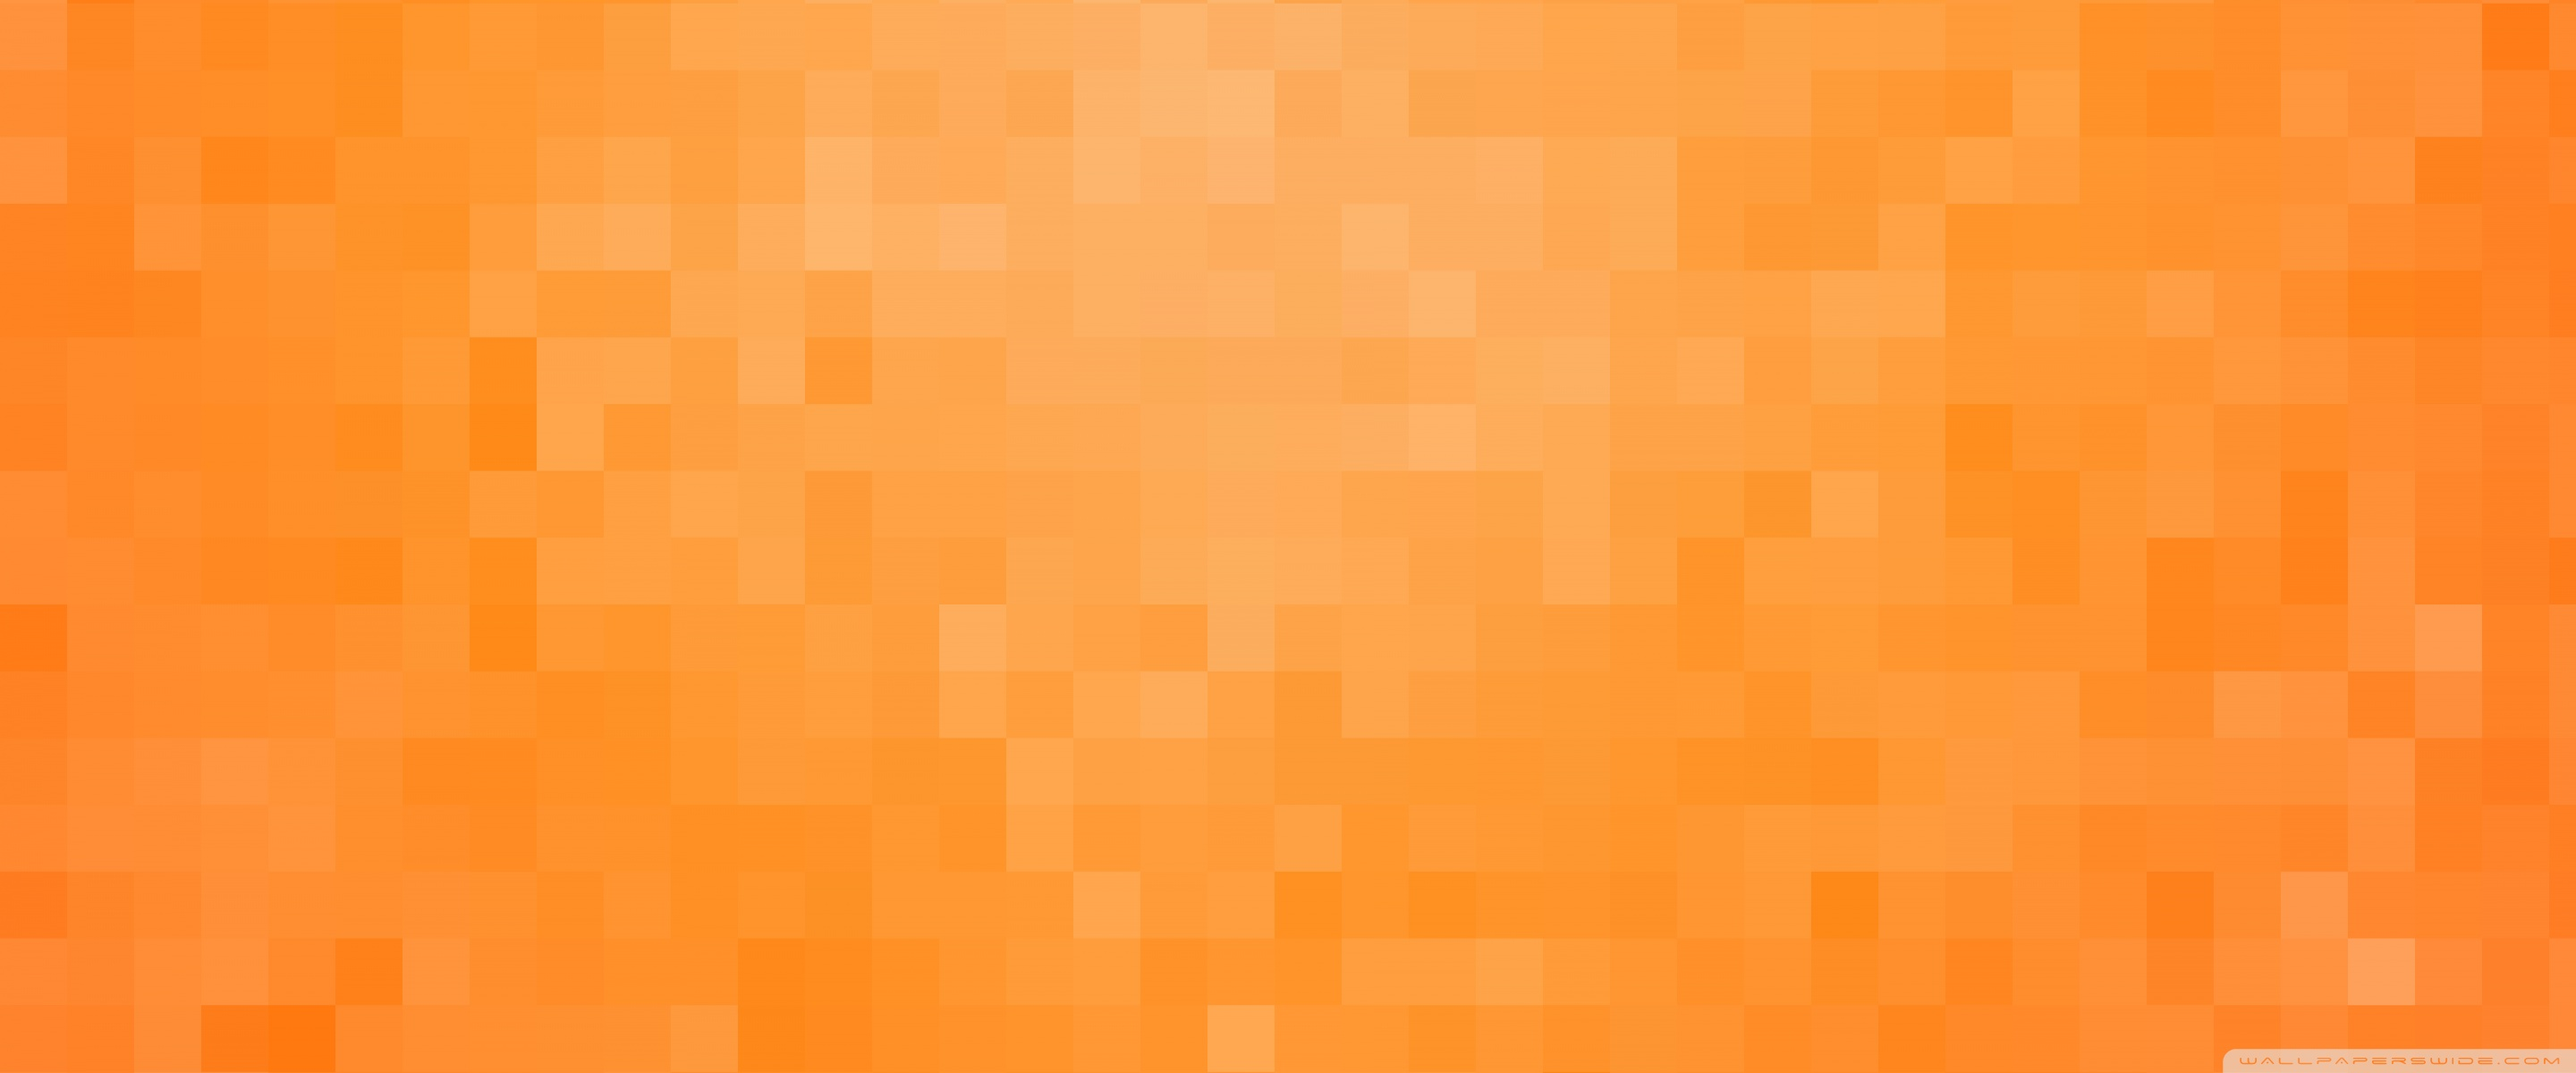
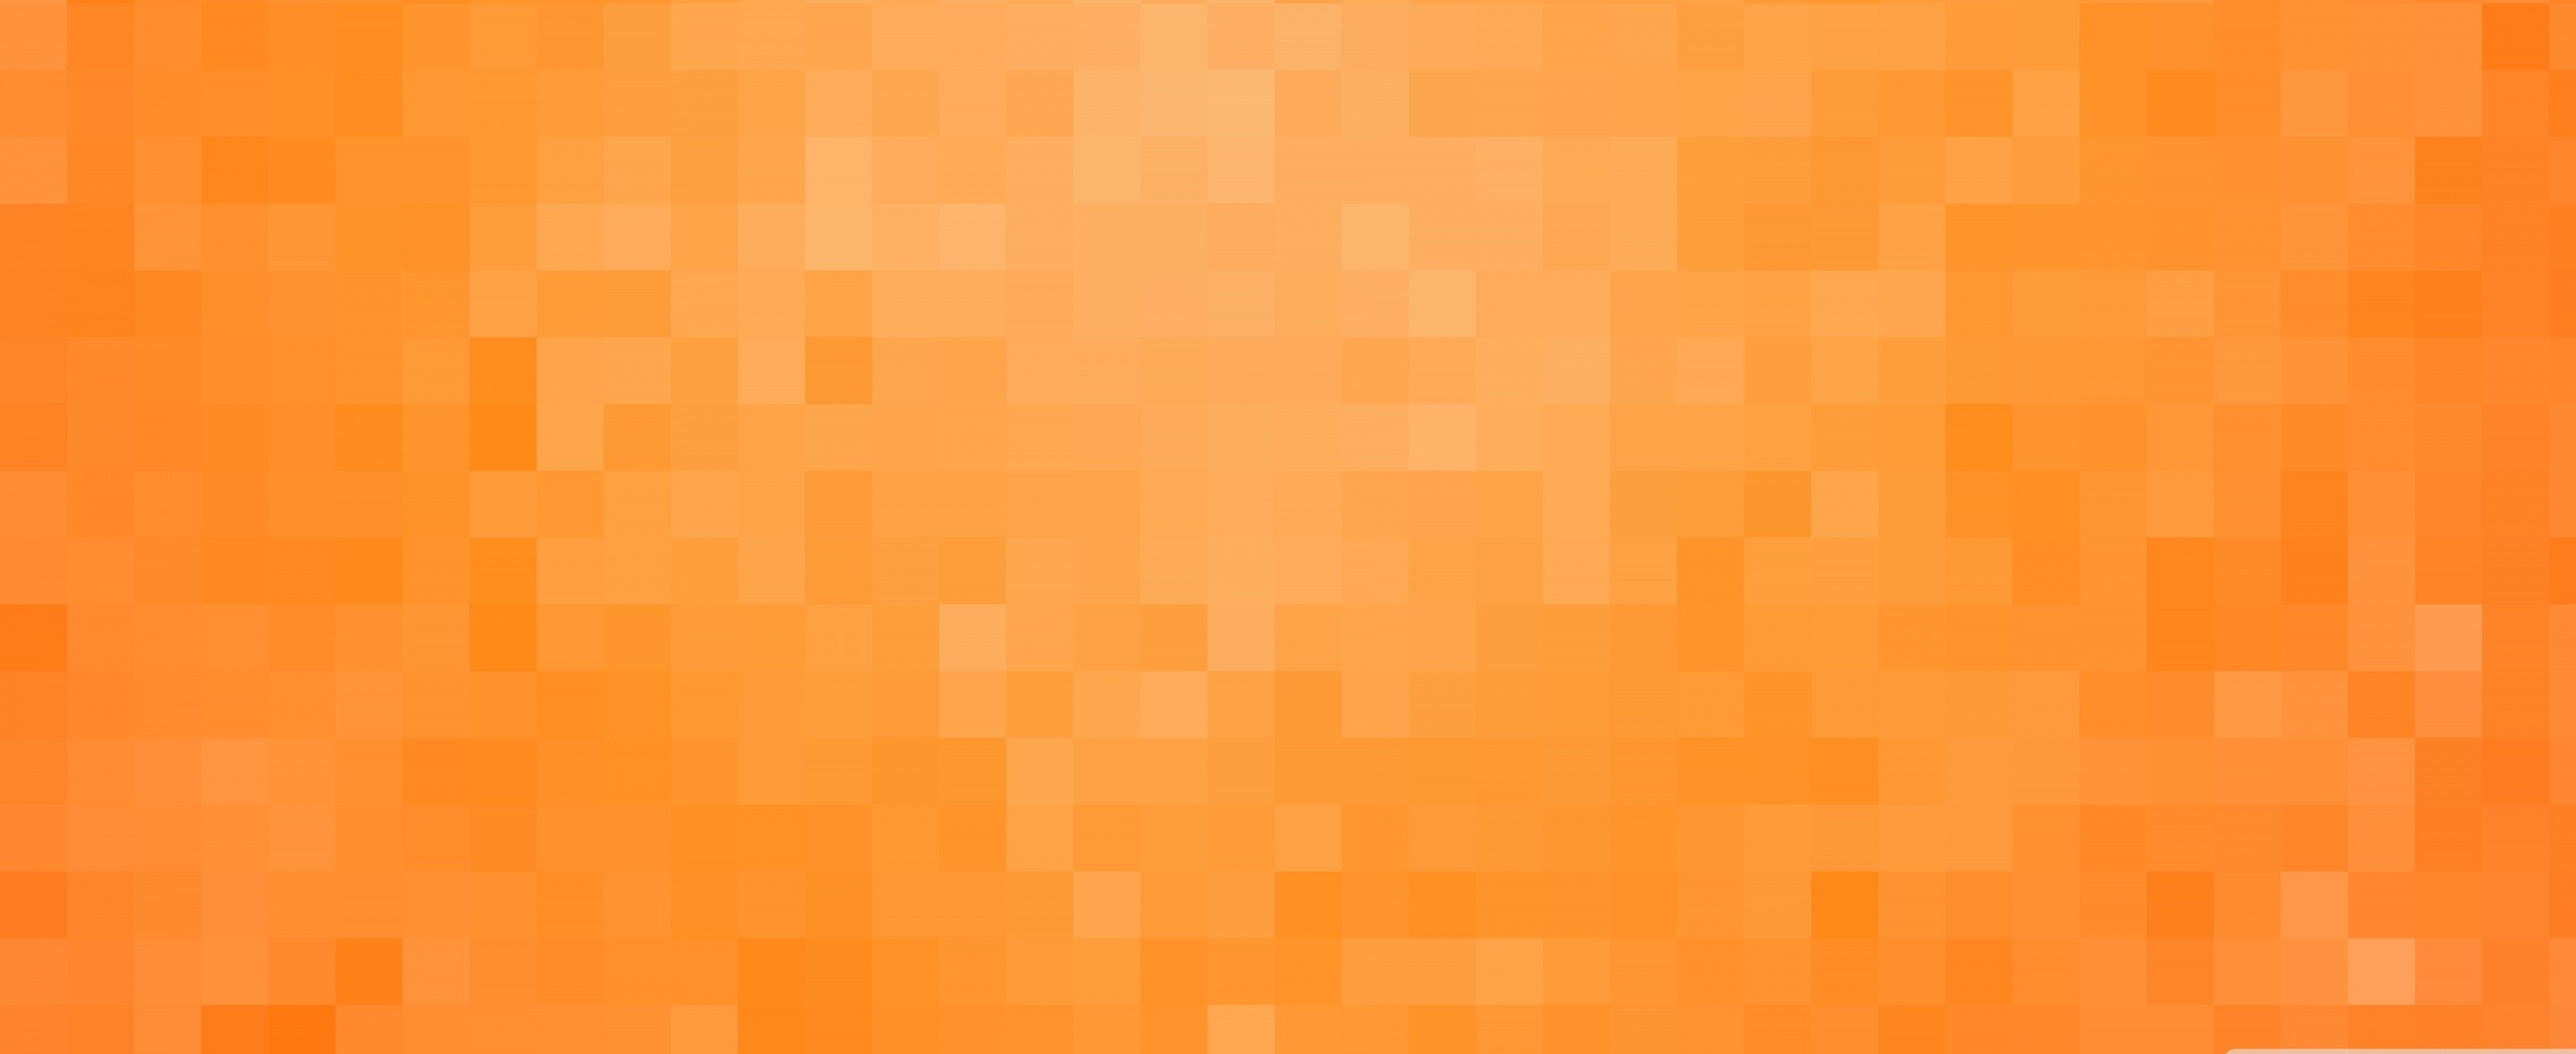
Added new completely style , fixed some stuff , added stuff.

diff --git a/moviesREACT/index.html b/moviesREACT/index.html
@@ -5,7 +5,7 @@
     <link rel="icon" type="image/png" href="/logo.png" />
 
     <meta name="viewport" content="width=device-width, initial-scale=1.0" />
-    <title>24h Trending Movies...🚀 </title>
+    <title>24h Trending Movies..🚀 </title>
   </head>
   <body>
     <div id="root"></div>

diff --git a/moviesREACT/src/index.css b/moviesREACT/src/index.css
@@ -23,7 +23,7 @@
 
   --breakpoint-xs: 480px;
 
-  --background-image-hero-pattern: url("/bg1111.png");
+  --background-image-hero-pattern: url("/bg1111.jpg");
 }
 
 @layer base {
